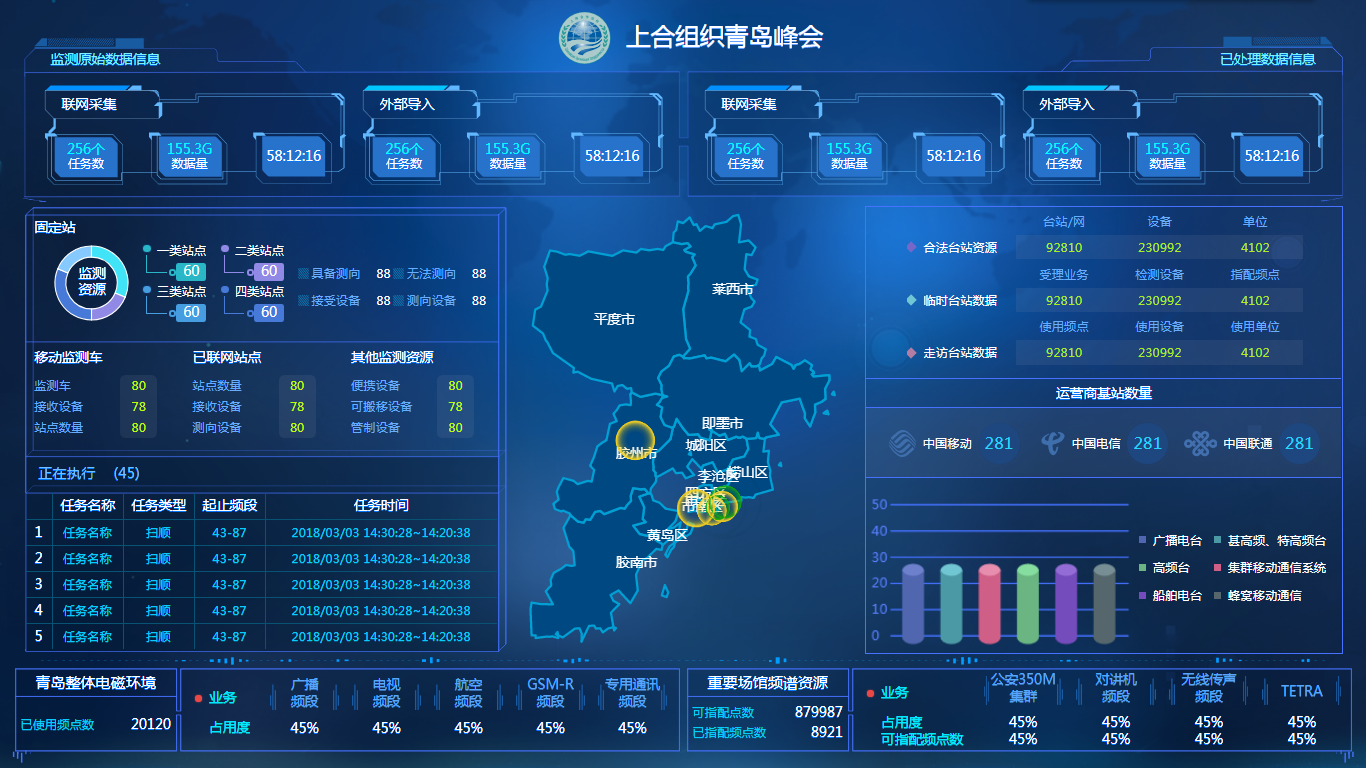
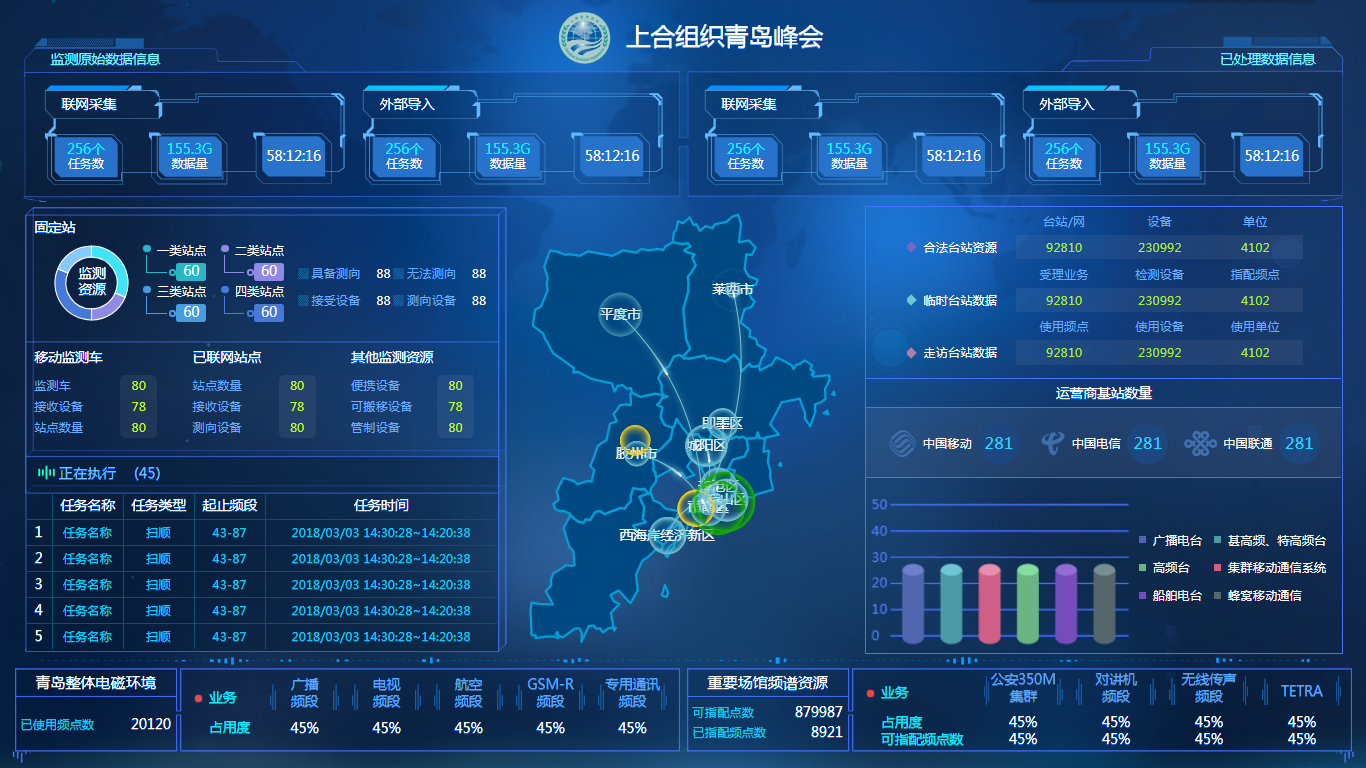
fresh

diff --git a/js/QD.js b/js/QD.js
@@ -153,7 +153,7 @@ function mapInit() {
     var borderWidth=remVal/6;
     var myChart = echarts.init(document.getElementById('center-part'));
     var option = {
-        color: ['#f4d125','#1aad08'],
+        color: ['#f4d125','#1aad08','#72bed0'],
         backgroundColor: 'transparent',
         series: [
             {
@@ -162,11 +162,16 @@ function mapInit() {
                 data:[],
                 geoCoord: {
                     '城阳区': [120.37,36.30],
-                    '黄岛区':[120.18,35.97],
-                    '即墨市':[120.45,36.38],
-                    '胶南市':[120.03,35.87],
+                    '西海岸经济新区':[120.18,35.97],
+                    '即墨区':[120.45,36.38],
                     '胶州市':[120.03,36.27],
                     '莱西市':[120.50,36.87],
+                    '李沧区':[120.43 ,36.15],
+                    '平度市':[119.95,36.78],
+                    '市北区':[120.38 ,36.08],
+                    '市南区':[120.38,36.07],
+                    '四方区':[120.35 ,36.10],
+                    '崂山区':[120.47 ,36.10],
                     '奥帆中心':[120.397399,36.06077],
                     '媒体中心':[120.448266,36.076505],
                     '飞机场':[120.022632,36.31902],
@@ -185,10 +190,19 @@ function mapInit() {
                         borderWidth:borderWidth,
                         label:{
                             show:true,
+                            formatter:function (o) {
+                                console.log(o);
+                                if(o=='四方区'||o=='胶南市'){
+                                    return ' ';
+                                }else{
+                                    return o
+                                }
+                            },
                             textStyle:{
                                 color:'#fff',
                                 fontSize:labelSize
                             }
+
                         }
                     },
                     emphasis: {
@@ -222,8 +236,8 @@ function mapInit() {
                         }
                     },
                     data : [
-                        {name: '奥帆中心', value: 100},
-                        {name: '媒体中心', value: 50},
+                        // {name: '奥帆中心', value: 100},
+                        // {name: '媒体中心', value: 50},
                         {name: '飞机场', value: 70},
                         {name: '火车站', value: 50}
                     ]
@@ -274,6 +288,78 @@ function mapInit() {
                         {name: '海关总署青岛教育培训基地', value: 40}
                     ]
                 }
+            },
+            {
+                name:'四方区',
+                type:'map',
+                mapType: 'QD',
+                data:[],
+                markLine : {
+                    large:true,
+                    symbolSize:[2,2],
+                    smooth:true,
+                    effect : {
+                        show: true,
+                        scaleSize: 1,
+                        period: 30,
+                        color: '#fff',
+                        shadowBlur: 10
+                    },
+                    itemStyle : {
+                        normal: {
+                            label:{
+                                show:false
+                            },
+                            borderWidth:1,
+                            lineStyle: {
+                                type: 'solid',
+                                shadowBlur: 10
+                            }
+                        }
+                    },
+                    data : [
+                        [{name:'城阳区'},{name:'四方区'}],
+                        [{name:'西海岸经济新区'},{name:'四方区'}],
+                        [{name:'即墨区'},{name:'四方区'}],
+                        [{name:'胶州市'},{name:'四方区'}],
+                        [{name:'莱西市'},{name:'四方区'}],
+                        [{name:'李沧区'},{name:'四方区'}],
+                        [{name:'平度市'},{name:'四方区'}],
+                        [{name:'市北区'},{name:'四方区'}],
+                        [{name:'市南区'},{name:'四方区'}],
+                        [{name:'崂山区'},{name:'四方区'}]
+                    ]
+                },
+                markPoint : {
+                    symbol:'emptyCircle',
+                    symbolSize : function (v){
+                        return 10 + v/10
+                    },
+                    effect : {
+                        show: true,
+                        shadowBlur : 0
+                    },
+                    itemStyle:{
+                        normal:{
+                            label:{
+                                show:false
+                            }
+                        }
+                    },
+                    data : [
+                        {name:'城阳区',value:10},
+                        {name:'西海岸经济新区',value:10},
+                        {name:'即墨区',value:10},
+                        {name:'胶州市',value:10},
+                        {name:'莱西市',value:10},
+                        {name:'李沧区',value:10},
+                        {name:'平度市',value:10},
+                        {name:'市北区',value:10},
+                        {name:'市南区',value:10},
+                        {name:'崂山区',value:10}
+                    ]
+                }
+
             }
         ]
     };

diff --git a/css/common.css b/css/common.css
@@ -417,6 +417,15 @@ a,a:hover{color:#333;}
     text-shadow: 0 0.1rem 0 #0078ff;
     padding-left:  1rem;
 }
+.middle-part .left-part .part-3 .title-box .loading-icon{
+    width: 1.2rem;
+    height: 1.2rem;
+    display: inline-block;
+    background: no-repeat url(../img/svg/bars.svg);
+    background-size: cover;
+    vertical-align: top;
+    margin-top: .4rem;
+}
 .middle-part .left-part .part-3 .title-box .title{
     margin-right: 1rem;
 }

diff --git a/index.html b/index.html
@@ -142,7 +142,7 @@
                 </div>
                 <div class="part-3">
                     <div class="title-box">
-                        <span></span>
+                        <span class="loading-icon"></span>
                         <span class="title">正在执行</span>
                         <span class="num">(45)</span>
                     </div>
